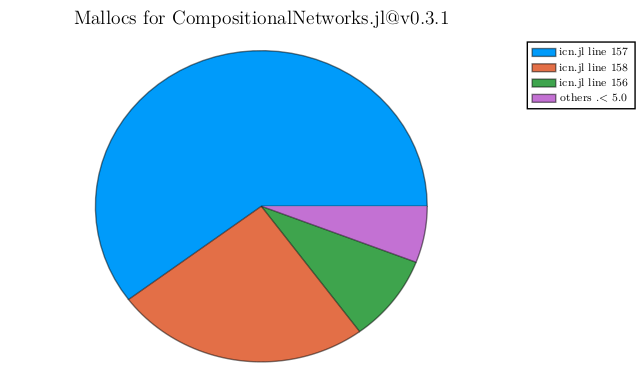
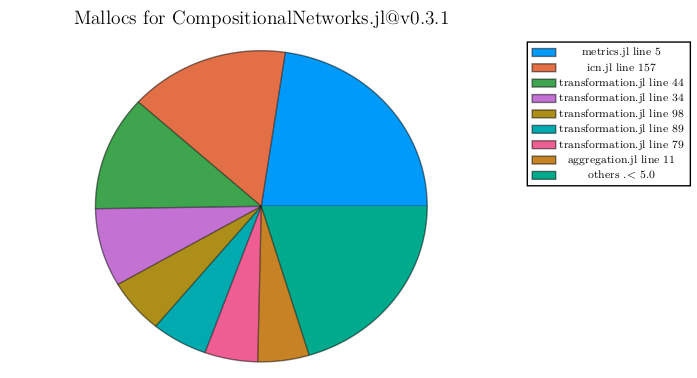
Improves README and output of plots

diff --git a/README.md b/README.md
@@ -6,22 +6,196 @@
 [![codecov](https://codecov.io/gh/JuliaConstraints/PerfChecker.jl/branch/main/graph/badge.svg?token=YVJhN4dpBp)](https://codecov.io/gh/JuliaConstraints/PerfChecker.jl)
 [![Code Style: Blue](https://img.shields.io/badge/code%20style-blue-4495d1.svg)](https://github.com/invenia/BlueStyle)
 
-This is a small collections of semi-automated performance checking tools for Julia packages. The long-term goal is to have it run in a similar fashion than the test environment.
+This is a small collection of semi-automated performance checking tools for Julia packages. The long-term goal is to have it run similarly than the test environment. The performances check of a package `P` would occur in independent instances of Julia that would allow for each version of `P`:
 
-Automatic check of allocation is not ready yet. It works only within a test environment (see test/runtests.jl).
+- Using the latest compatible versions of Julia and other dependencies of `P`
+- Making `PerfChecker.jl` compatibility requirements independent of the environment used during performance checks.
+
+## Small tutorial
+
+This tutorial is based on a beta version and is prone to change frequently. Please refer to this `README` if your performance checking scripts stop to work.
+
+Let's write two small scripts to check allocations (`allocs.jl`) and benchmarks (`bench.jl`) for [CompositionalNetworks.jl](https://github.com/JuliaConstraints/CompositionalNetworks.jl) using `PerfChecker.jl`.
+In the current state, we write and execute the scripts (and stores a local environment) in the `/perf` folder of `CompositionalNetworks.jl`. You can use `julia --project` to activate that environment when running the script. For instance, I run the check for `CompositionalNetworks.jl` with the following command,
+```shell
+julia -t 10 --project
+```
+
+To generate results from different versions of the targeted package, be sure to change the version in the local environment.
+
+We will generate plots from the allocations check and the benchmark check from the `REPL`.
+
+Please add to the environment the following packages (adapt to your use case):
+
+- `PerfChecker.jl`
+- `Test.jl`: for allocations
+- `BenchmarkTools`: for benchmarks
+- `CompositionalNetworks.jl`: target
+- `ConstraintDomains.jl`: dependency
+
+**Remark on code compilation and `PerfChecker.jl`**
+
+Depending on the nature of your code, it is important to be sure to trigger all compilation previous to the allocation check. This role is annotated in both scripts.
+
+Note that in the case of `CompositionalNetworks.jl`, it stochastically generates a great deal of methods to compile.
+
+For deterministic code, `pre-alloc()` can be minimal, and `@benchmark` will handle triggering the necessary compilation before the checks.
+
+
+### Allocation checks
+
+The current state of `PerfChecker.jl` requires the use of `Test.jl`, but this requirement will disappear soon.
+
+```julia
+# Required to run the script
+using PerfChecker
+using Test
+
+# Target(s)
+using CompositionalNetworks # lastest release: 0.3.1
+
+# Direct dependencies of this script
+using ConstraintDomains
+
+@testset "PerfChecker.jl" begin
+    # Title of the alloc check (for logging purpose)
+    title = "Explore, Learn, and Compose"
+
+    # Dependencies needed to execute pre_alloc and alloc
+    dependencies = [CompositionalNetworks, ConstraintDomains]
+
+    # Target of the alloc check
+    targets = [CompositionalNetworks]
+
+    # Code specific to the package being checked
+    domains = fill(domain([1, 2, 3]), 3)
+
+    # Code to trigger precompilation before the alloc check
+    pre_alloc() = foreach(_ -> explore_learn_compose(domains, allunique), 1:10)
+
+    # Code being allocations check
+    alloc() = explore_learn_compose(domains, allunique)
+
+    # Actual call to PerfChecker
+    alloc_check(title, dependencies, targets, pre_alloc, alloc; path=@__DIR__, threads=10)
+end
+```
+
+This script will output the table below (and store it as `mallocs/mallocs-0.3.1.csv`). Note that the allocations are provided in decreasing order. The `.mem` files generated by tracking allocations are automatically deleted (unless your code run into an error).
 
 ![Malloc-check](/images/PerfChecker-alloc_check.png)
-![Malloc-evolution](/images/mallocs-evolutions.png)
+
+### Benchmark checks
+
+As `BenchmarkTools.jl` provides already a great set of functionalities, we use it directly. In the future, it is likely that `PerfChecker.jl` will provide synthetic sugar to wrap `@benchmark` with similar behavior to make using `BenchmarkTools.jl` invisible.
+
+```julia
+# Required to run the script
+using PerfChecker
+using BenchmarkTools
+
+# Target(s)
+using CompositionalNetworks # lastest release: 0.3.1
+
+# Direct dependencies of this script
+using ConstraintDomains
+
+# Target of the benchmark
+target = CompositionalNetworks
+
+# Code specific to the package being checked
+domains = fill(domain([1, 2, 3, 4]), 4)
+
+# Code to trigger precompilation before the bench (optional)
+foreach(_ -> explore_learn_compose(domains, allunique), 1:10)
+
+# Code being benchmarked (be sure to enforce specific amounts of evals and samples for each version benchmarked)
+bench = @benchmark explore_learn_compose(domains, allunique) evals=1 samples=10 seconds=3600
+
+# Store the bench results
+store_benchmark(bench, target; path=@__DIR__)
+```
+
+This script will output the results of `@benchmark` as a table (and store it as `benchmarks/benchmark-0.3.1.csv`). Note that it is recommended (but not necessary) to ensure that for each version of the package benchmarked, the output is of similar length.
+
+### Visualization
+
+We will generate some plots, in `perf/mallocs` and `perf/benchmarks`. In the REPL (or a notebook), please run:
+
+```julia
+using PerfChecker
+using CompositionalNetworks
+
+alloc_plot([CompositionalNetworks])
+bench_plot([COmpositionalNetworks])
+
+```
+
+**Allocs (Pie Chart)**
+
+For each version checked with the previous scripts, we get a pie plot showing the distribution of the allocations (per line). Obviously, improving the allocations at the 5th line of `metrics.jl` would improve allocations (and likely overall performances) in `CompositionalNetworks.jl`. Let's try to spot issues through the evolution of allocations over time.
+
 ![Malloc-pie](images/mallocs-0.3.1.png)
+
+**Allocs over time**
+
+Luckily, an overview of the evolution of the allocations within each file is also plotted. The allocations in `CompositionalNetworks.jl` improve a lot from `v0.3.x`. Interestingly, the changes also introduced an increase in allocations in the `metrics.jl` file. Maybe there really is an issue (answer in future releases of `CompositionalNetworks.jl`).
+
+![Malloc-evolution](/images/mallocs-evolutions.png)
+
+First, we should check how the performances are impacted by the changes in memory allocations.
+
+**Benchmarks (allocs and memory)**
+
+To confirm the improvement of allocations above, let's have a look at the evolution of allocations and memory use over time.
+
+![Benchmark-allocs](/images/benchmark-allocs.png)
+![Benchmark-memory](/images/benchmark-memory.png)
+
+Both distribution of allocations and memory is very stable. This meet the improvement of the design of `CompositionalNetworks.jl` that ensure allocations of one data structure at the start of each `explore_learn_compose` call evaluated by both scripts.
+
+**Benchmarks (times and garbage collection times)**
+
+Garbage collection brings a lot of comfort for programmers, and it participates in the attractiveness of the Julia language. However, careless allocations can be a performance pitfall. Such was the case of `CompositionalNetworks.jl` prior to `v0.3`.
+
+![Benchmark-gctimes](/images/benchmark-gctimes.png)
+
+The changes introduce from that version clearly improved our GC issues. Does it reflect on the global time performance? (spoiler: yes, it does, cf next plot)
+
+![Benchmark-times](/images/benchmark-times.png)
+
+We can remark important deviations (beware the logarithmic scale ...) from the mean. As mentioned above, `CompositionalNetworks.jl` uses a stochastic process, so it is not surprising. At least, memory (allocations) are stable.
+
+**Benchmarks (evolutions overview)**
+
+Well, we probably could get the gist of the previous 4 plots from the wrap-up plot below.
+
+![Benchmark-evolutions](/images/benchmark-evolutions.png)
+
+Note that the analysis on memory stability despite a stochastic process that reflect on the `times` and `gctimes` is not possible here. But it looks much better if you only can show off one performance plot.
+
+
 
 Help to solve the issue of making the script in `perf/allocs.jl` and not only `runtests.jl` is more than welcome. See issue #2
 
-### A non-exhaustive list of expected features:
+## A non-exhaustive list of expected features:
 - [x] Automatic allocation check
-- [ ] Automatic Benchmark
-- [ ] Automatic Profiling
-- [ ] Automatic plots of previous features
+- [x] Automatic Benchmark
+- [ ] Automatic Profiling ? (not sure, there already is a bunch of super cool packages)
+- [x] Automatic plots of previous features
   - [x] using commit/project version label
   - [x] allocations
-  - [ ] benchmark
-  - [ ] profiling
+  - [x] benchmark
+  - [ ] profiling ? (See above)
+- [ ] Independent environment for performance checks
+  - [x] allocations
+  - [x] benchmark
+- [ ] Automatic environment selection based on
+  - [ ] Julia compatibility: run the latest compatible Julia version available
+  - [x] Dependencies' compatibility
+- [ ] Sugar syntax and perfchecks options
+  - [ ] wrap `@benchmark`
+  - [ ] wrap `plot` from `Plots.jl` and `StatsPlots.jl`
+- [ ] ML to generate (smells of a GSoC project?)
+  - [ ] possible performances bottlenecks, issues, regressions
+  - [ ] automatic captions for plots
